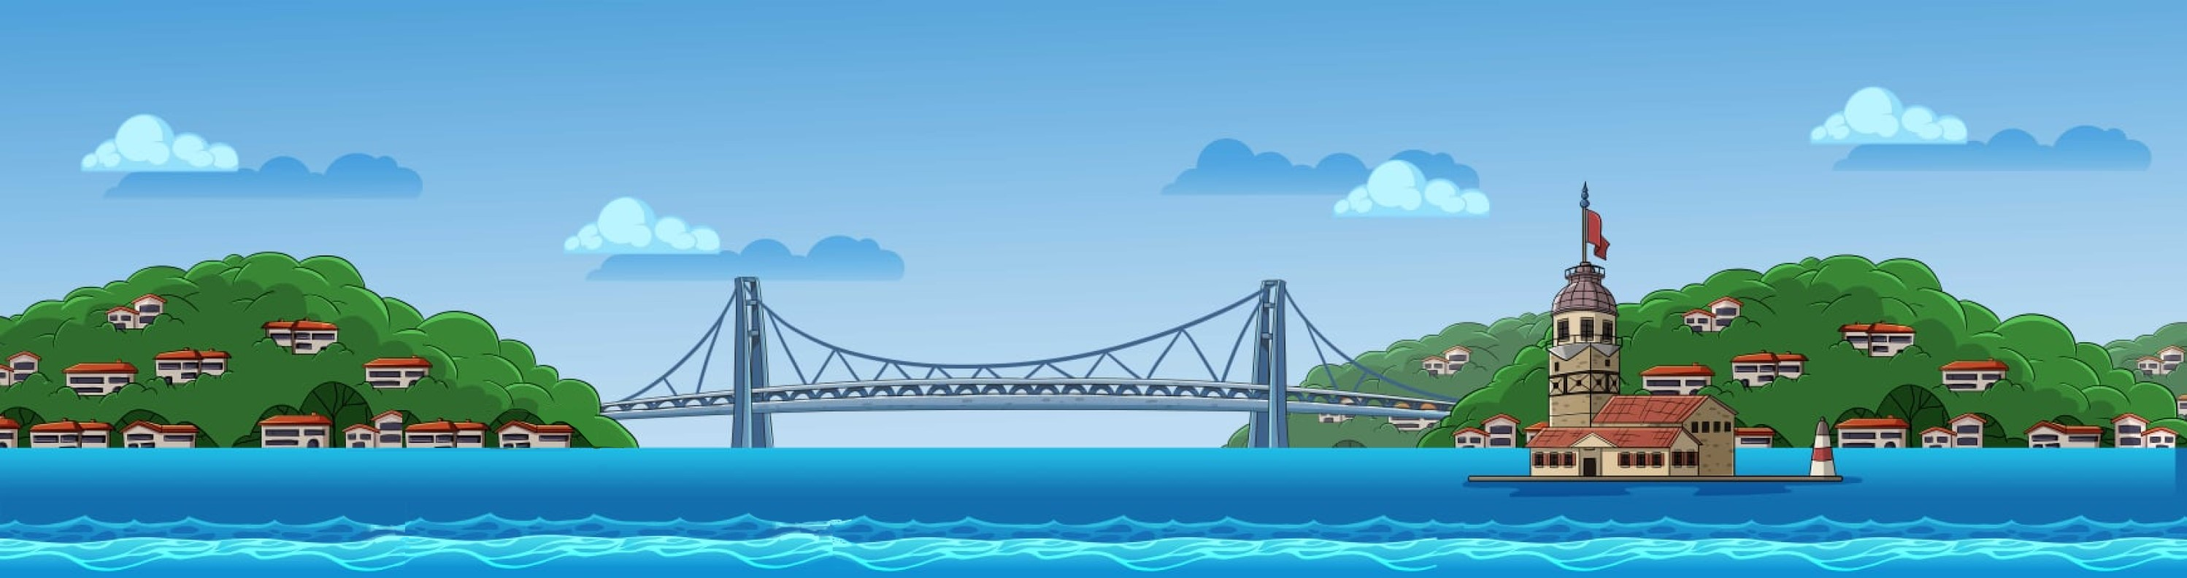
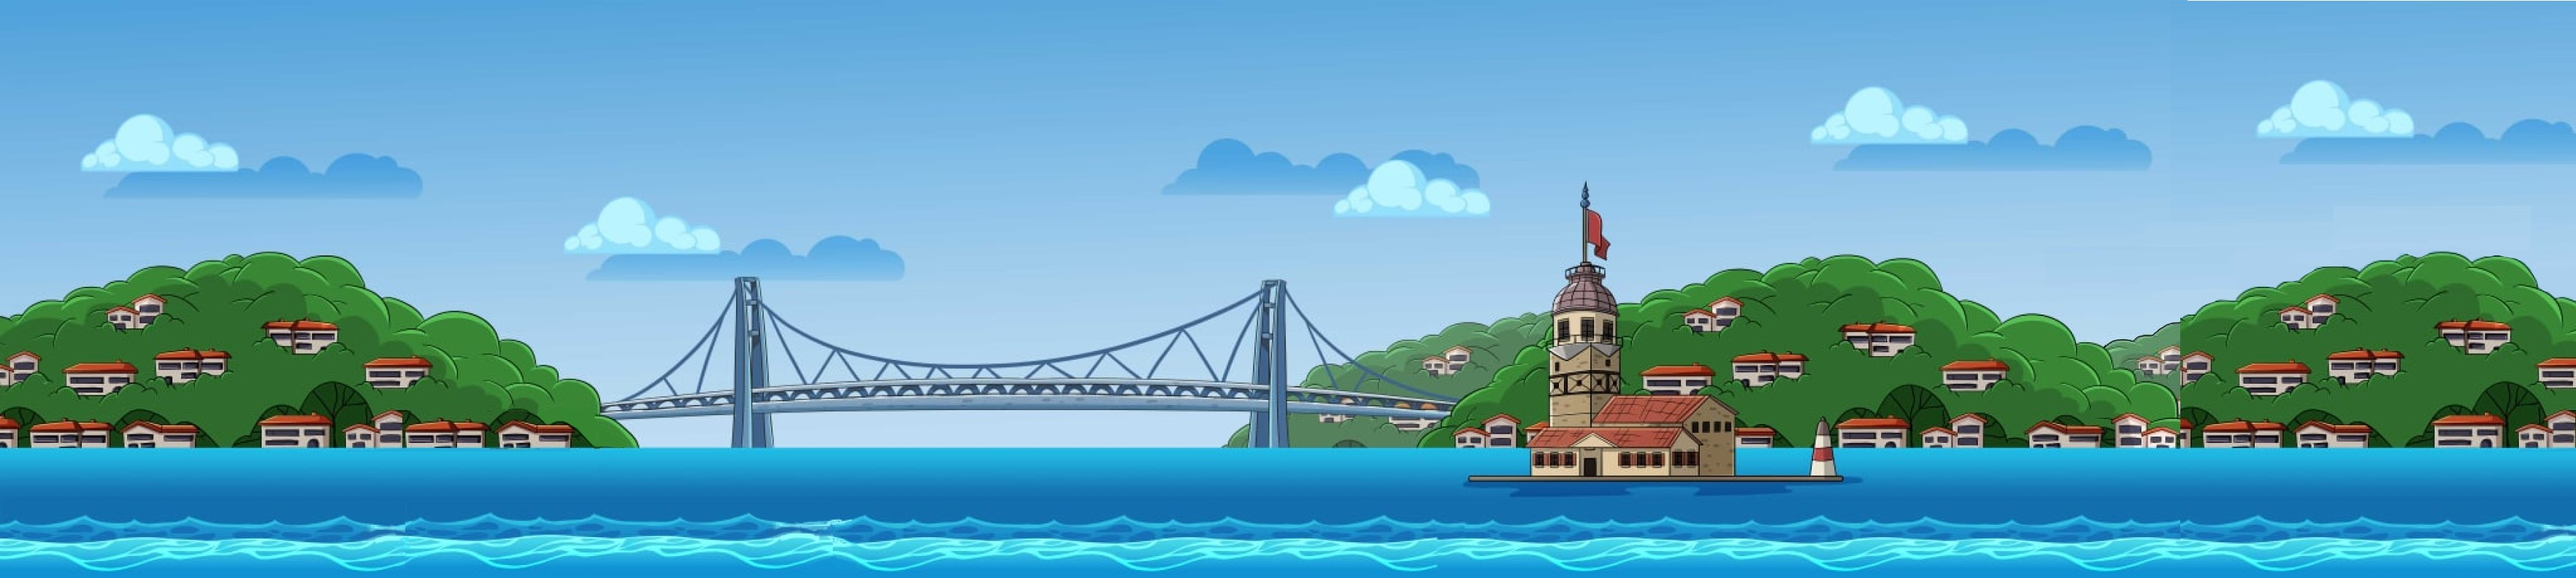
levels working

diff --git a/PC/Game/niveau.cpp b/PC/Game/niveau.cpp
@@ -652,8 +652,8 @@ void Niveau::BackgroundQt()
 
     Raph_PixMap* image4 = new Raph_PixMap;
     image4->pix = map3;
-    image4->x = -500;
-    image4->y = -100;
+    image4->x = -100;
+    image4->y = 0;
     //image4->coor = { 0,0 };
     image4->box = { map3.height(),50 };
     image4->name = "Background";
